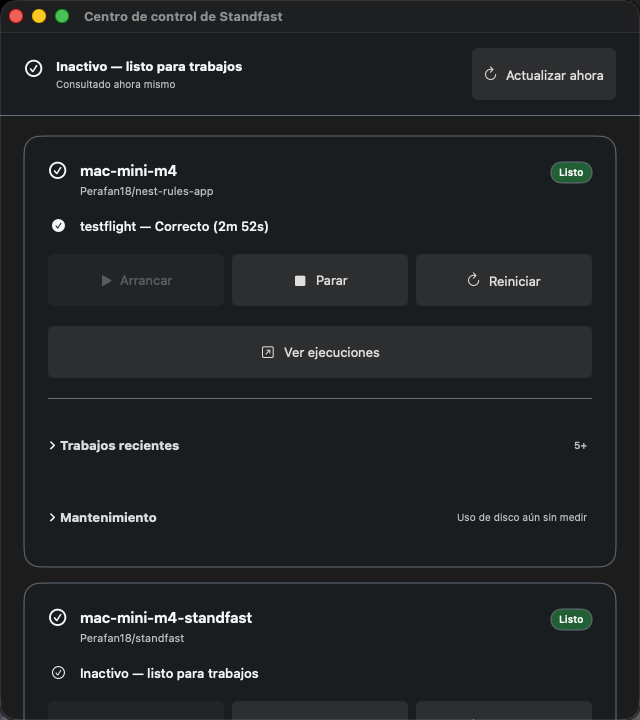
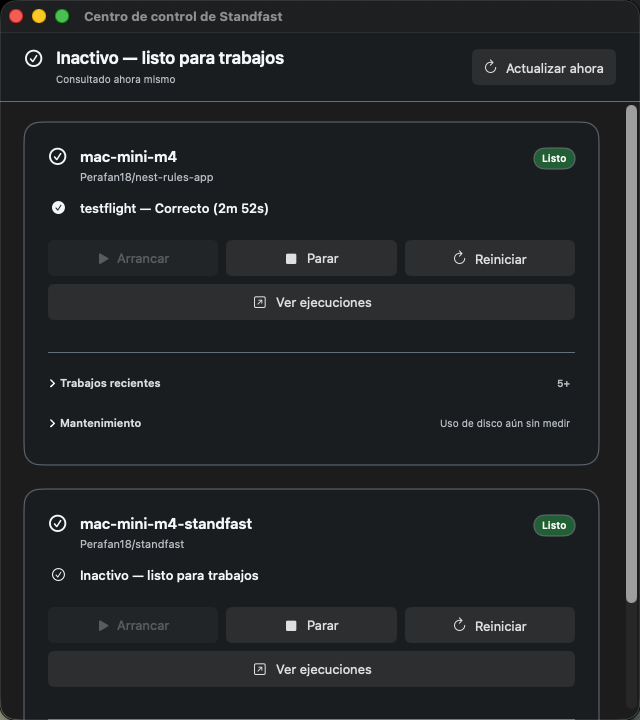
feat: give the Control Center a real vertical rhythm and type scale
Two measurements, both taken from the system rather than assumed.

AppKit's own bordered push button reports an intrinsic height of 24 pt. Every
control here was pinned to 44 — the iOS *touch* target, on a pointer-driven
Mac. That single number is why the window read as a ported phone app no matter
how carefully the rest was built. Controls now use a 28 pt floor: comfortably
above the system's own height, nowhere near a thumb.

`headline` renders at 13 pt on macOS, the same size as body. The fleet summary
— the one sentence the window exists to give — used it, which put the window's
conclusion *below* the runner names it summarises, and put the collapsed
section labels at the same weight and size as the status line they sit under.
The summary moves to 17 pt semibold and the section labels down to 11 pt
semibold, so the scale reads 17 / 15 / 13 / 11 / 10 with weight separating
peers instead of substituting for size.

The card's sections were separated by one spacing value, 20 pt, all the way
down. A single gap between everything asserts that everything is equally
related, which is the same as asserting nothing: identity, controls and the
two collapsed drawers all floated at the same distance. The gaps now carry the
grouping — 16 inside the identity block, 24 before the controls, 32 before the
rule, 12 after it, 4 between the drawers — and cards are separated by 24 rather
than 16 so they read as distinct objects. This uses the whole existing scale,
[…]

diff --git a/Sources/Standfast/RunnerCardView.swift b/Sources/Standfast/RunnerCardView.swift
@@ -43,19 +43,36 @@ struct RunnerCardView: View {
   }
 
   var body: some View {
-    VStack(alignment: .leading, spacing: StandfastTheme.Spacing.roomy) {
-      identity
-      focus
-      if let feedback = card.operationFeedback {
-        operationFeedback(feedback)
+    // One spacing value between every section says every section is equally
+    // related to the one above it, which is the same as saying nothing about
+    // structure at all. The gaps below carry the grouping instead: what this
+    // runner is and is doing reads as one block, its controls as a second, and
+    // the two things you open on purpose as a quieter third.
+    VStack(alignment: .leading, spacing: 0) {
+      VStack(alignment: .leading, spacing: StandfastTheme.Spacing.standard) {
+        identity
+        focus
+        if let feedback = card.operationFeedback {
+          operationFeedback(feedback)
+        }
       }
-      serviceActions
-      navigation
+
+      VStack(spacing: StandfastTheme.Spacing.small) {
+        serviceActions
+        navigation
+      }
+      .padding(.top, StandfastTheme.Spacing.large)
+
       Rectangle()
         .fill(palette.structuralBorder.color)
         .frame(height: StandfastTheme.Stroke.structural)
-      history
-      maintenance
+        .padding(.top, StandfastTheme.Spacing.xLarge)
+
+      VStack(alignment: .leading, spacing: StandfastTheme.Spacing.xSmall) {
+        history
+        maintenance
+      }
+      .padding(.top, StandfastTheme.Spacing.compact)
     }
     .padding(StandfastTheme.Spacing.large)
     .frame(maxWidth: .infinity, alignment: .leading)
@@ -206,7 +223,7 @@ struct RunnerCardView: View {
           Label(action.label, systemImage: action.symbolName)
         }
       }
-      .frame(maxWidth: .infinity, minHeight: 44)
+      .frame(maxWidth: .infinity, minHeight: StandfastTheme.controlMinimumHeight)
       .contentShape(Rectangle())
     }
     .disabled(!action.isEnabled)
@@ -243,7 +260,7 @@ struct RunnerCardView: View {
           Label(action.label, systemImage: action.symbolName)
         }
       }
-      .frame(maxWidth: .infinity, minHeight: 44)
+      .frame(maxWidth: .infinity, minHeight: StandfastTheme.controlMinimumHeight)
       .contentShape(Rectangle())
     }
     .disabled(!action.isEnabled)
@@ -275,7 +292,7 @@ struct RunnerCardView: View {
     } label: {
       HStack {
         Text(L10n.recentJobs)
-          .font(.headline)
+          .font(.subheadline.weight(.semibold))
         Spacer()
         if case .available(let rows, true) = card.history {
           Text("\(rows.count)+")
@@ -283,7 +300,7 @@ struct RunnerCardView: View {
             .foregroundStyle(palette.textSecondary.color)
         }
       }
-      .frame(minHeight: 44)
+      .frame(minHeight: StandfastTheme.controlMinimumHeight)
     }
     .accessibilityIdentifier(identifiers.jobs)
   }
@@ -331,13 +348,13 @@ struct RunnerCardView: View {
     } label: {
       HStack {
         Text(L10n.maintenance)
-          .font(.headline)
+          .font(.subheadline.weight(.semibold))
         Spacer()
         Text(card.maintenance.measured)
           .font(.caption)
           .foregroundStyle(palette.textSecondary.color)
       }
-      .frame(minHeight: 44)
+      .frame(minHeight: StandfastTheme.controlMinimumHeight)
     }
     .accessibilityIdentifier(identifiers.maintenance)
   }
@@ -347,7 +364,10 @@ struct RunnerCardView: View {
       performMaintenance(offer.kind)
     } label: {
       Text(offer.label)
-        .frame(maxWidth: .infinity, minHeight: 44, alignment: .leading)
+        .frame(
+          maxWidth: .infinity, minHeight: StandfastTheme.controlMinimumHeight,
+          alignment: .leading
+        )
         .contentShape(Rectangle())
     }
     .buttonStyle(.bordered)

diff --git a/Sources/Standfast/ControlCenterView.swift b/Sources/Standfast/ControlCenterView.swift
@@ -31,7 +31,7 @@ struct ControlCenterView: View {
         header(presentation.header)
 
         ScrollView {
-          LazyVStack(alignment: .leading, spacing: StandfastTheme.Spacing.standard) {
+          LazyVStack(alignment: .leading, spacing: StandfastTheme.Spacing.large) {
             if let notice = presentation.notice {
               noticeView(notice)
             }
@@ -95,12 +95,16 @@ struct ControlCenterView: View {
         .foregroundStyle(palette.textPrimary.color)
         .accessibilityHidden(true)
       VStack(alignment: .leading, spacing: StandfastTheme.Spacing.xSmall) {
+        // This sentence is the answer the window exists to give. `headline`
+        // renders at 13 pt on macOS — the same size as body text and smaller
+        // than the runner names underneath it, which put the window's own
+        // conclusion below the details it summarises.
         Text(presentation.summary)
-          .font(.headline)
+          .font(.title2.weight(.semibold))
           .foregroundStyle(palette.textPrimary.color)
         if let attention = presentation.attention {
           Text(attention)
-            .font(.subheadline.weight(.medium))
+            .font(.subheadline)
             .foregroundStyle(palette.attentionForeground.color)
         }
         Text(presentation.freshness)
@@ -116,7 +120,7 @@ struct ControlCenterView: View {
       fleet.refresh()
     } label: {
       Label(L10n.refreshNow, systemImage: "arrow.clockwise")
-        .frame(minHeight: 44)
+        .frame(minHeight: StandfastTheme.controlMinimumHeight)
         .contentShape(Rectangle())
     }
     .buttonStyle(.bordered)
@@ -164,7 +168,7 @@ struct ControlCenterView: View {
         .foregroundStyle(palette.textPrimary.color)
         .accessibilityHidden(true)
       Text(presentation.title)
-        .font(.headline)
+        .font(.title3.weight(.semibold))
         .foregroundStyle(palette.textPrimary.color)
       ForEach(presentation.detailLines, id: \.self) { detail in
         Text(detail)

diff --git a/Sources/Standfast/StandfastTheme.swift b/Sources/Standfast/StandfastTheme.swift
@@ -128,6 +128,12 @@ enum StandfastTheme {
     static let separator: CGFloat = 0.5
   }
 
+  /// AppKit's own bordered push button reports an intrinsic height of 24 pt.
+  /// The 44 pt this replaced is the iOS *touch* target, and on a pointer-driven
+  /// Mac it makes every control read as a ported phone button. This keeps a few
+  /// points of comfort over the system's own height without leaving it behind.
+  static let controlMinimumHeight: CGFloat = 28
+
   static let controlCenterMinimumWidth: CGFloat = 520
   static let controlCenterDefaultWidth: CGFloat = 540
   static let controlCenterDefaultHeight: CGFloat = 720
